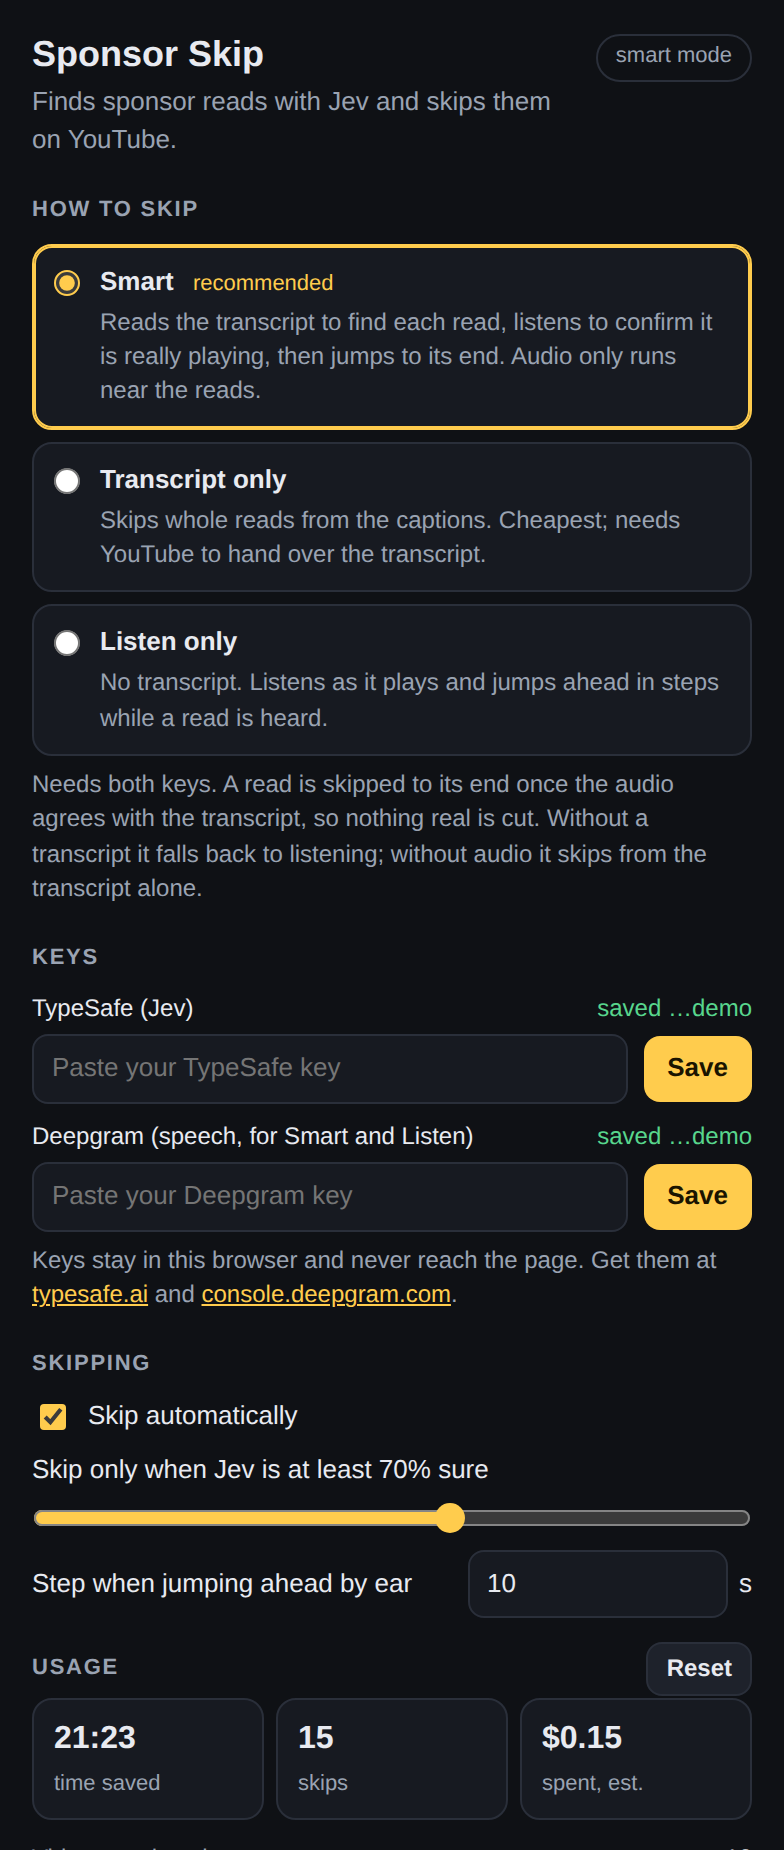
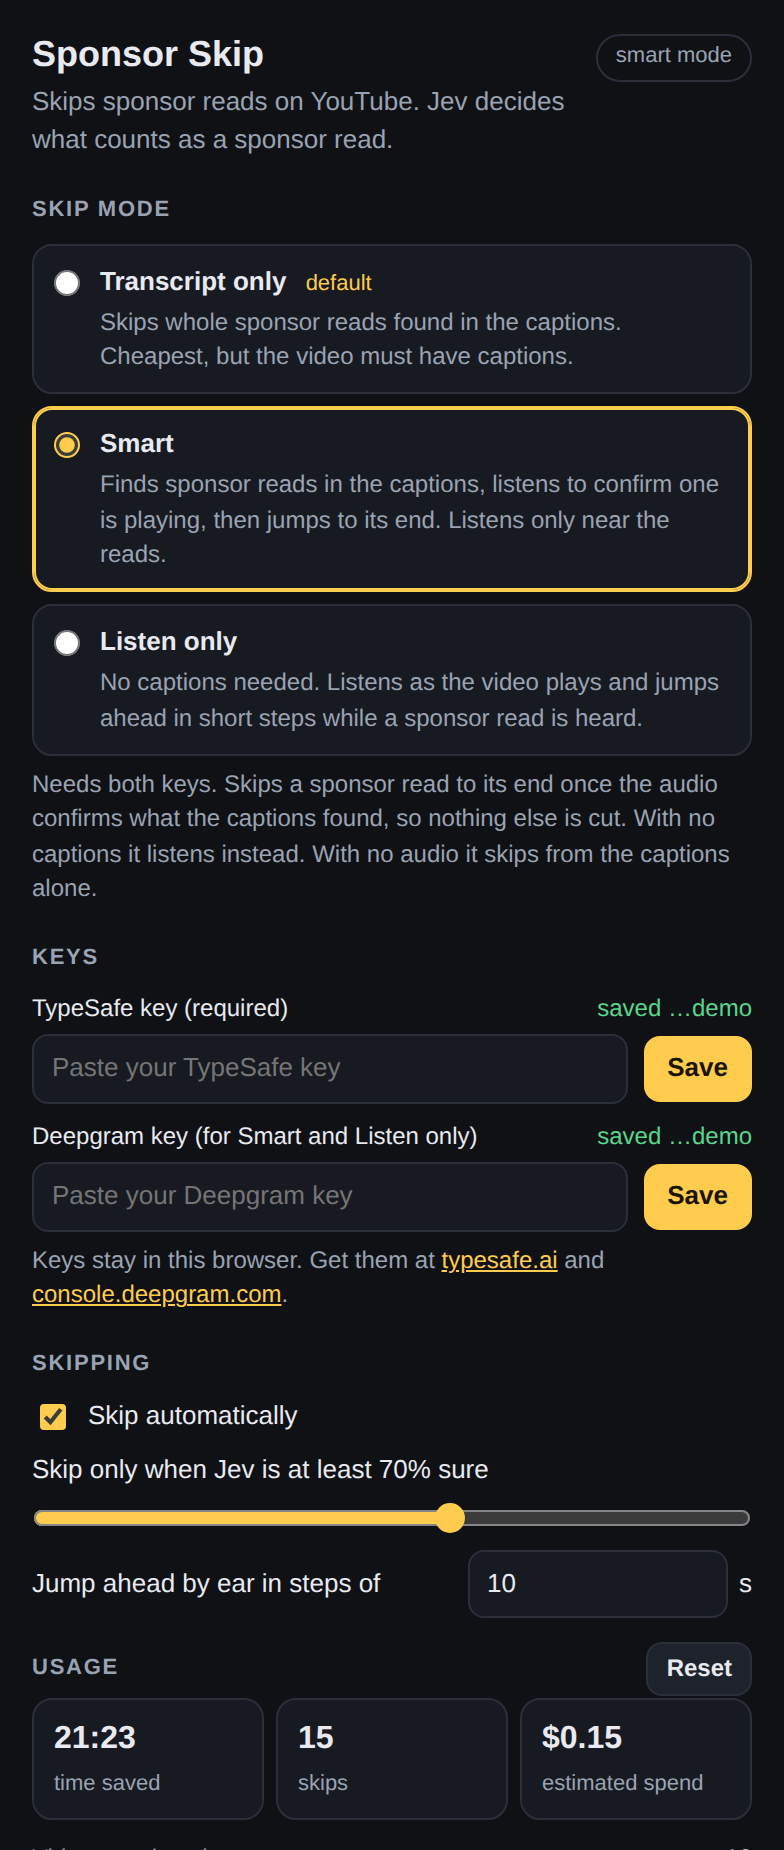
README: transcript is the default, smart mode's 12s fallback, auto-listening, fresh popup shot
Claude-Session: https://claude.ai/code/session_013uFUYVofWPFMwCkA6nndKR

diff --git a/README.md b/README.md
@@ -12,10 +12,11 @@ also need a [Deepgram](https://console.deepgram.com) key for speech-to-text.
 
 1. Clone this repo. Open `chrome://extensions`, turn on **Developer mode**,
    click **Load unpacked** and pick the `extension/` folder.
-2. Click the extension's icon, paste your TypeSafe key (and Deepgram key)
-   and choose a mode.
+2. Click the extension's icon and paste your TypeSafe key. Transcript mode
+   works from there; add a Deepgram key to try the Smart or Listen modes.
 3. Open any YouTube video. A panel appears bottom-right with the reads found,
-   a **Skip** button per read, the auto-skip toggle and the running cost.
+   a **Skip** button per read, the auto-skip toggle, the running cost and, in
+   the audio modes, what is being heard and a log of every decision.
 
 <p align="center"><img src="docs/panel.png" width="300" alt="The panel on a watch page" /></p>
 
@@ -23,17 +24,25 @@ also need a [Deepgram](https://console.deepgram.com) key for speech-to-text.
 
 | Mode | How it works | Needs | Cost per hour watched |
 | --- | --- | --- | --- |
-| **Smart** (recommended) | Transcript finds each read and its end; audio is listened to only around each read to confirm it is playing, then the video jumps to the end. | Both keys | about $0.05 |
-| **Transcript only** | Jev reads the captions, the whole read is skipped. Works only where YouTube hands the transcript over. | TypeSafe | under a cent |
+| **Transcript only** (default) | Jev reads the captions and the whole read is skipped. Works only where YouTube hands the transcript over. | TypeSafe | under a cent |
+| **Smart** | The transcript finds each read and its end; the audio is listened to only around each read, and once Jev agrees a read is playing the video jumps to its end. If the audio has not confirmed a read 12 s after its start, the transcript skips it anyway. | Both keys | about $0.05 |
 | **Listen only** | No transcript. The video's audio is streamed to Deepgram as it plays; when Jev hears a read, the video jumps ahead in 10 s steps until it is over. | Both keys | about $0.46 |
 
 When in doubt the extension watches a second of the read rather than cutting
 a second of content: a skip only happens above the confidence you set (70%
-by default), and Smart mode waits for the audio to agree with the transcript.
+by default), and in the audio modes everything Jev hears has already played,
+so a jump never lands before the read starts.
 
-The popup holds the mode, the keys, the skipping settings and the usage
-totals. Keys stay in `chrome.storage.local` and never reach the page. Results
-are cached per video; **Re-analyze** in the panel forces a fresh run.
+In the audio modes listening starts by itself when a video plays and stops
+shortly after it pauses; **Stop** in the panel turns it off for the current
+video. Audio is captured from the video element itself, so no extra browser
+permission is needed and playback is untouched.
+
+The popup holds the mode, the keys, the skipping settings (auto-skip, the
+confidence needed, the step for jumps by ear) and the usage totals, with the
+model and prices under *Advanced*. Keys stay in `chrome.storage.local` and
+never reach the page. Results are cached per video; **Re-analyze** in the
+panel forces a fresh run.
 
 <p align="center"><img src="docs/popup.png" width="360" alt="The popup" /></p>
 
@@ -84,10 +93,13 @@ A skip is cut at a phrase inside the boundary line, and only at a phrase Jev
 is at least 80% sure is sponsor. Run the pipeline on a real video with
 `npm run analyze -- <youtube url>` (`--verbose` shows every window).
 
-In the audio modes Jev is asked over the last minute of what was heard whether
-the speaker is inside a read *right now*. Everything it sees has already
-played, so a jump never lands before the read starts; the trade is that the
-first seconds of every read are heard. The decision loop is `src/live.js`.
+In the audio modes Jev is asked, every few seconds, over the last minute of
+what was heard whether the speaker is inside a read *right now*. After a
+jump it is asked again with the lines from before and after the jump side by
+side, and the video steps on while the answer stays yes. The trade for never
+cutting early is that the first seconds of every read are heard. The decision
+loop is `src/live.js`; the speech socket lives in `extension/offscreen.js`,
+where another provider can be added next to Deepgram.
 
 ## Accuracy against SponsorBlock
 
@@ -136,5 +148,8 @@ test/            node --test suite, stub client, mock API, extension e2e
 - Transcript fetching uses YouTube's private InnerTube API through
   `youtubei.js`; it can break when YouTube changes things, and the caption
   tracks are hidden from cloud IPs. The audio modes do not depend on it.
-- Audio capture needs the video unmuted and listens to one tab at a time.
+- The audio modes listen to one tab at a time, and the content script only
+  runs on youtube.com for now.
 - The last jump in Listen mode can overshoot into content by up to one step.
+- Deepgram bills per minute heard: Listen mode streams the whole video, Smart
+  mode only the minutes around each read.
